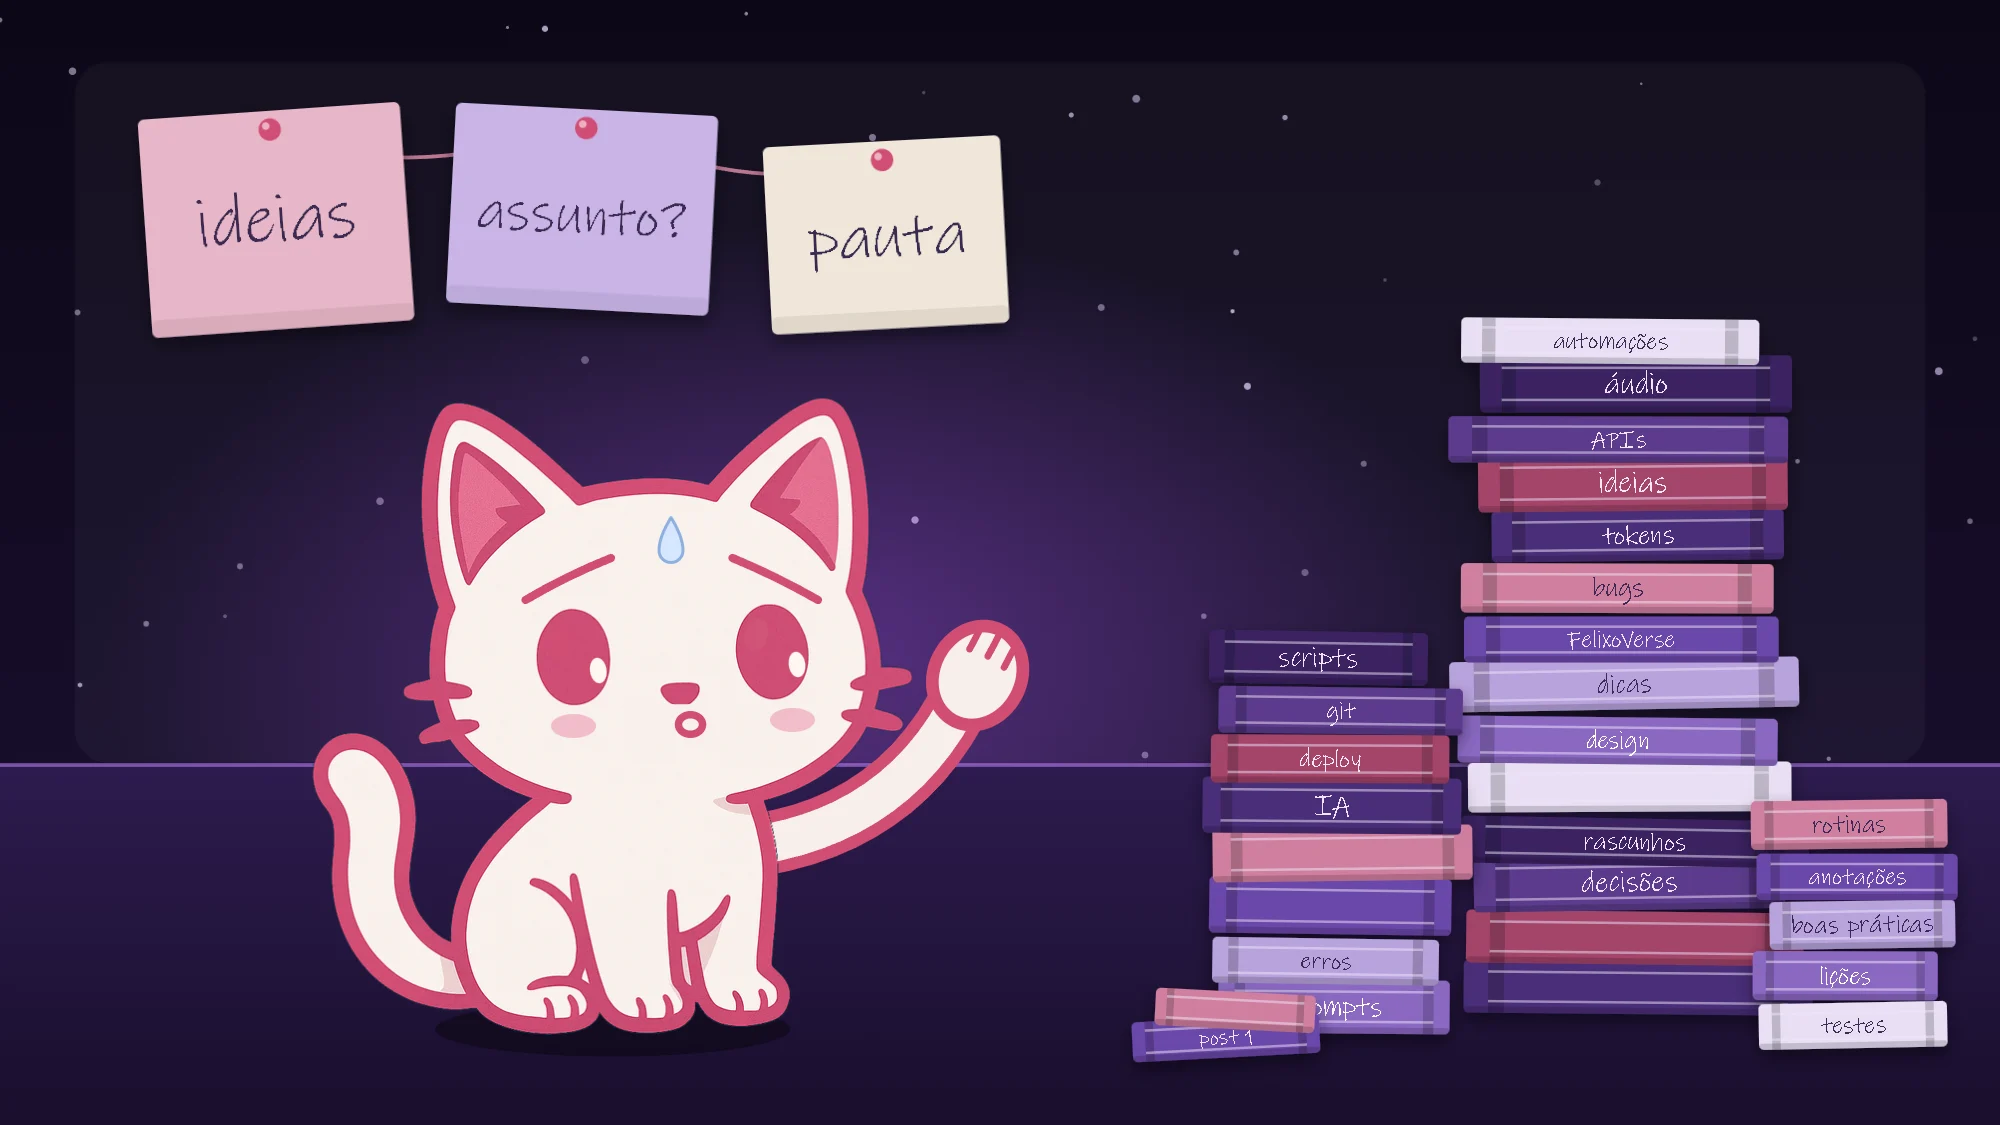
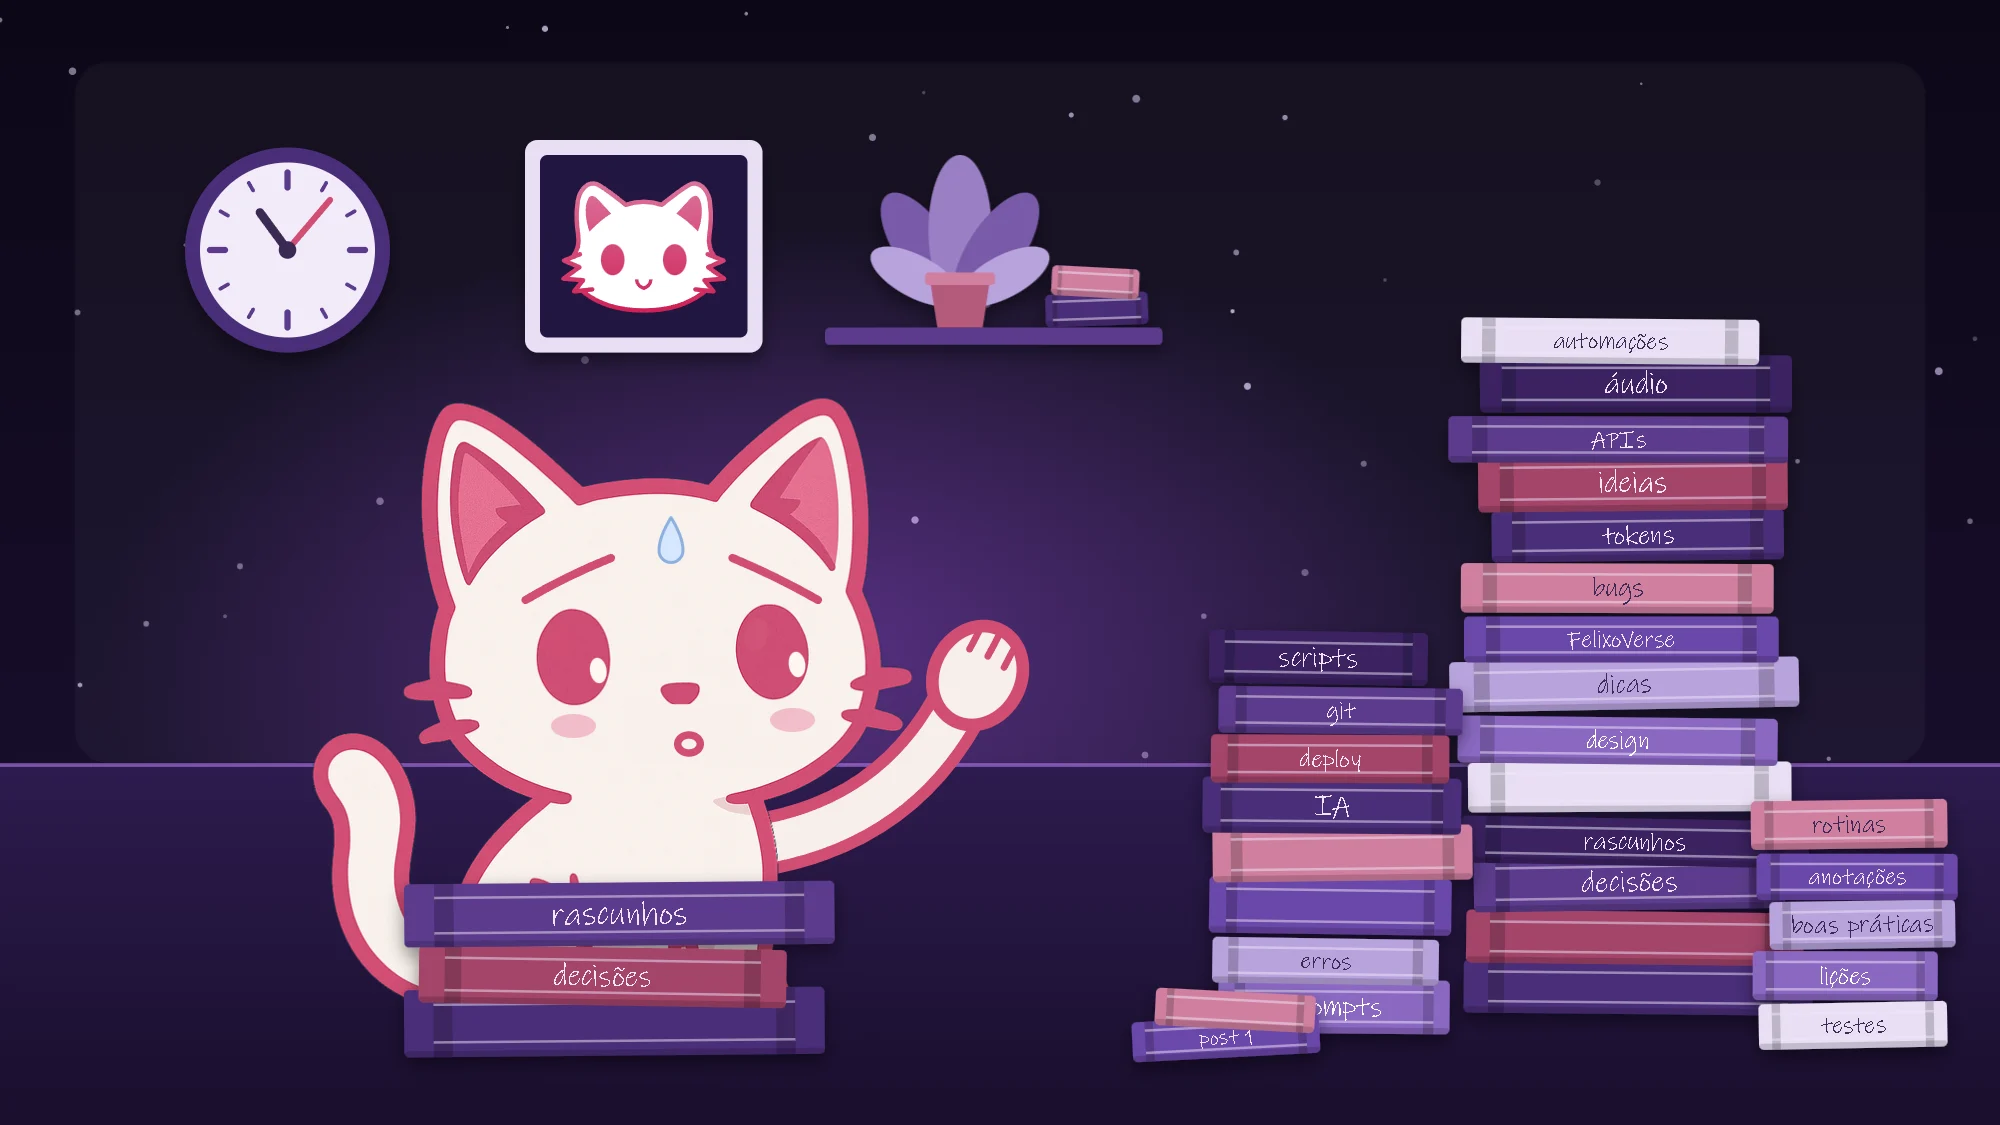
post: ajusta a segunda ilustração do Olá, mundo (post-its repetidos, cinco patas, boquinha)
A parede troca os post-its por relógio, quadro com o rosto do gatinho e
prateleira com planta. O gato senta atrás de uma pilha baixa de livros, que
esconde as patas do chão, e só a patinha levantada aparece. A boquinha desce e
ganha espaço do nariz. Textos alternativos atualizados em português e inglês.

Claude-Session: https://claude.ai/code/session_01WeFhRG7s7vJgYG25M1aHhM

Changed region(s): [[0.062, 0.0933, 0.589, 0.3422], [0.186, 0.7778, 0.434, 0.9644], [0.341, 0.6222, 0.372, 0.6844]]

diff --git a/src/content/posts/ola-mundo.md b/src/content/posts/ola-mundo.md
@@ -15,7 +15,7 @@ Depois de um tempo estudando e, principalmente, **construindo coisas**, comecei 
 
 Blog é justamente isso: o lugar onde a explicação para de morar só na minha cabeça.
 
-![O gatinho do blog sentado, de sobrancelhas levantadas, olhar de lado e uma gota de suor na testa, erguendo uma pata para apresentar uma pilha enorme de livros, como no meme do Bob Esponja.](./ola-mundo/gatinho-e-os-livros.webp)
+![O gatinho do blog sentado atrás de uma pilha baixa de livros, de sobrancelhas levantadas, olhar de lado e uma gota de suor na testa, erguendo uma pata para apresentar outra pilha enorme de livros, como no meme do Bob Esponja.](./ola-mundo/gatinho-e-os-livros.webp)
 
 ## O que você vai encontrar aqui
 

diff --git a/src/content/traducoes/en/ola-mundo.md b/src/content/traducoes/en/ola-mundo.md
@@ -15,7 +15,7 @@ After a while studying and, mainly, **building things**, I started to accumulate
 
 A blog is exactly that: the place where the explanation stops living only in my head.
 
-![The blog's cat sitting with raised eyebrows, a sideways glance and a drop of sweat on its forehead, raising a paw to present a huge pile of books, like in the SpongeBob meme.](../../posts/ola-mundo/gatinho-e-os-livros.webp)
+![The blog's cat sitting behind a low pile of books, with raised eyebrows, a sideways glance and a drop of sweat on its forehead, raising a paw to present another huge pile of books, like in the SpongeBob meme.](../../posts/ola-mundo/gatinho-e-os-livros.webp)
 
 ## What you'll find here
 
